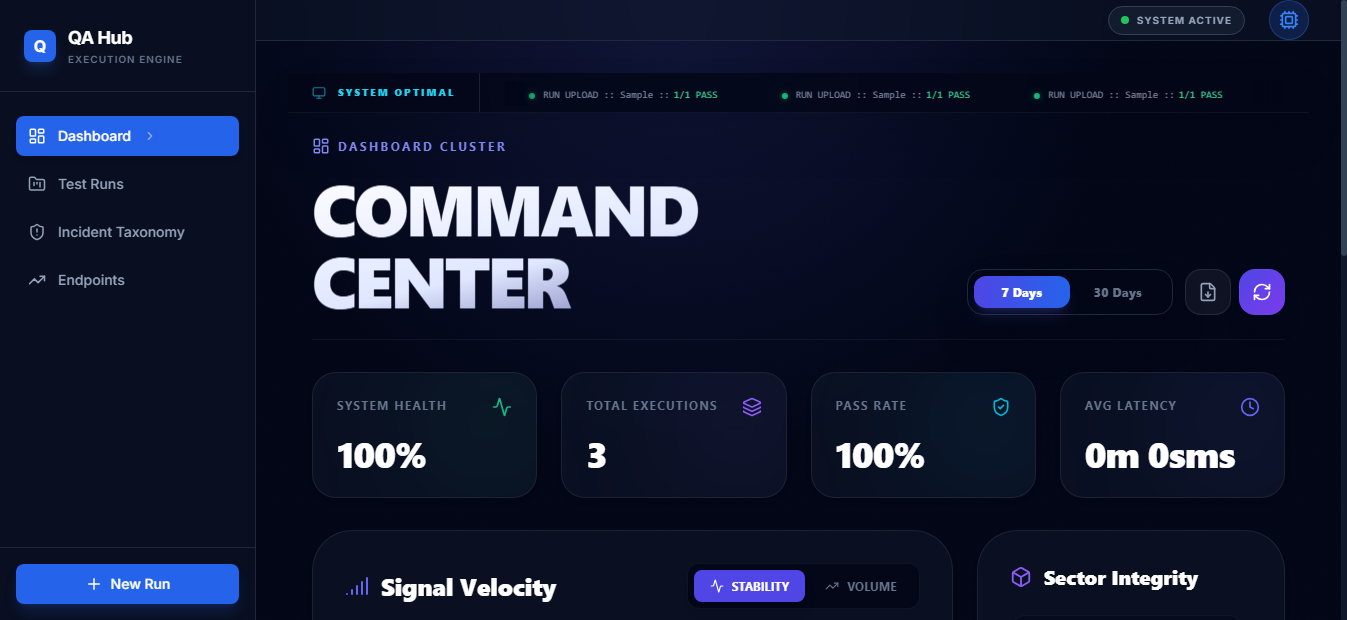
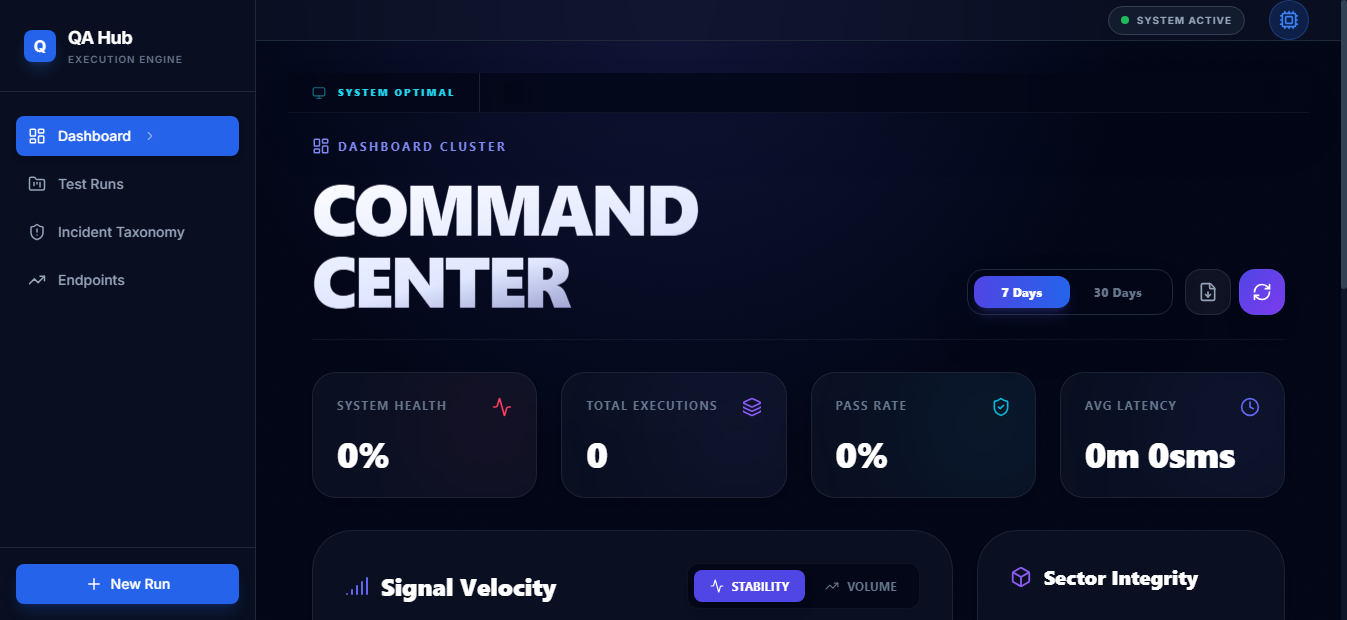
fix errors

diff --git a/features/steps/gui_custom_steps.py b/features/steps/gui_custom_steps.py
@@ -17,3 +17,55 @@ def step_wait_for_stable(context, name):
     # wait for specific loading spinners to disappear.
     # For now, 1 second is sufficient for local animations.
     time.sleep(1)
+
+
+@step('the "{element_name}" element should contain text "{text}"')
+def step_element_should_contain_text_custom(context, element_name, text):
+    """
+    Verify a page object element contains expected text.
+    Alias for framework step to match specific feature file syntax.
+    """
+    # Import from framework to reuse logic
+    from qa_framework.steps.gui_steps import step_element_should_contain_text
+    # Call framework step (it handles page context lookup internally if needed, 
+    # but here we need to ensure context.current_page is set or pass it explicitly if the step implies it)
+    
+    # The feature file usage implies context.current_page is set by "Given/Then the 'dashboard' page is displayed"
+    # and this step just targets an element on that page.
+    # The framework step signature is (context, element_name, page_name, text).
+    # But wait, the framework has `step_current_element_should_contain_text(context, element_name, text)`.
+    # We should reuse that.
+    
+    from qa_framework.steps.gui_steps import step_current_element_should_contain_text
+    step_current_element_should_contain_text(context, element_name, text)
+
+
+@step('I verify the content of the first {page_count:d} pages of "{filename}"')
+def step_verify_pdf_content_generic(context, page_count, filename):
+    """
+    Verify that the downloaded PDF has content on the first N pages.
+    Checks for non-empty text extraction.
+    """
+    import os
+    from pypdf import PdfReader
+    
+    # Downloads dir is usually in user home/Downloads
+    downloads_dir = os.path.join(os.path.expanduser("~"), "Downloads")
+    filepath = os.path.join(downloads_dir, filename)
+    
+    # Wait for file to exist (simple retry)
+    for _ in range(5):
+        if os.path.exists(filepath):
+            break
+        time.sleep(1)
+        
+    assert os.path.exists(filepath), f"File {filename} not found in {downloads_dir}"
+    
+    reader = PdfReader(filepath)
+    actual_pages = len(reader.pages)
+    assert actual_pages >= page_count, f"PDF has {actual_pages} pages, expected at least {page_count}"
+    
+    for i in range(page_count):
+        page_text = reader.pages[i].extract_text()
+        assert page_text.strip(), f"Page {i+1} of {filename} is empty or could not be read."
+

diff --git a/features/steps/api_steps.py b/features/steps/api_steps.py
@@ -1,0 +1,48 @@
+from behave import then
+import json
+
+@then('the response JSON path "{json_path}" should equal "{expected_value}"')
+def step_verify_response_json_path_equals(context, json_path, expected_value):
+    """
+    Verify that a specific path in the JSON response equals the expected value.
+    Supports dot notation for nested objects and array indices (e.g., "0.id", "users.0.name").
+    """
+    # Ensure response exists
+    if not hasattr(context, "response"):
+        raise AssertionError("No response found in context. Did you run a request step?")
+    
+    try:
+        json_data = context.response.json()
+    except Exception as e:
+        raise AssertionError(f"Failed to parse response as JSON: {e}")
+
+    # Navigate the path
+    current_data = json_data
+    keys = json_path.split('.')
+    
+    traversed_path = ""
+    
+    for key in keys:
+        traversed_path += f".{key}" if traversed_path else key
+        
+        # Handle list indices (digits)
+        if isinstance(current_data, list):
+            try:
+                idx = int(key)
+                current_data = current_data[idx]
+            except (ValueError, IndexError):
+                raise AssertionError(f"Path '{traversed_path}' not found or invalid index for list.")
+        # Handle dictionary keys
+        elif isinstance(current_data, dict):
+            if key in current_data:
+                current_data = current_data[key]
+            else:
+                raise AssertionError(f"Key '{key}' not found in path '{traversed_path}'. Available keys: {list(current_data.keys())}")
+        else:
+             raise AssertionError(f"Cannot navigate path '{traversed_path}' on primitive type: {type(current_data)}")
+
+    # Compare values
+    # We cast current_data to string for comparison since expected_value is a string from the Gherkin step
+    # This might need refinement for other types, but "should equal" usually implies strict or string matching in basic BDD.
+    # For now, let's normalize both to strings for simple equality.
+    assert str(current_data) == expected_value, f"Expected path '{json_path}' to be '{expected_value}', but got '{current_data}'"
